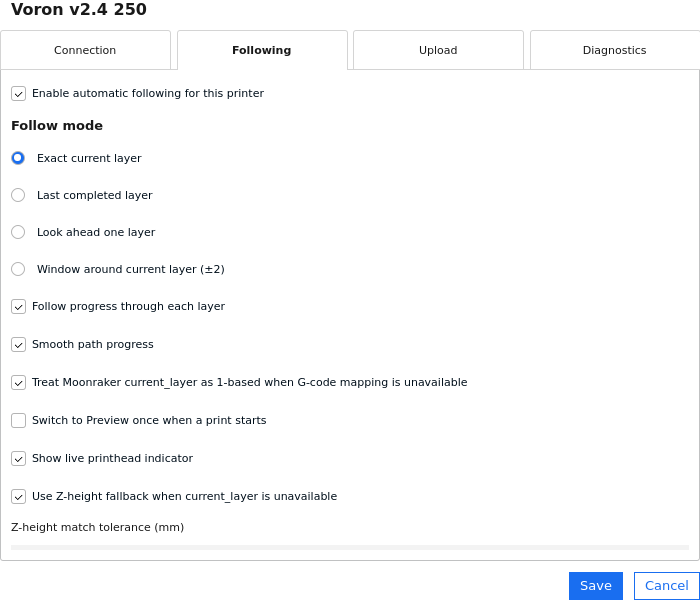
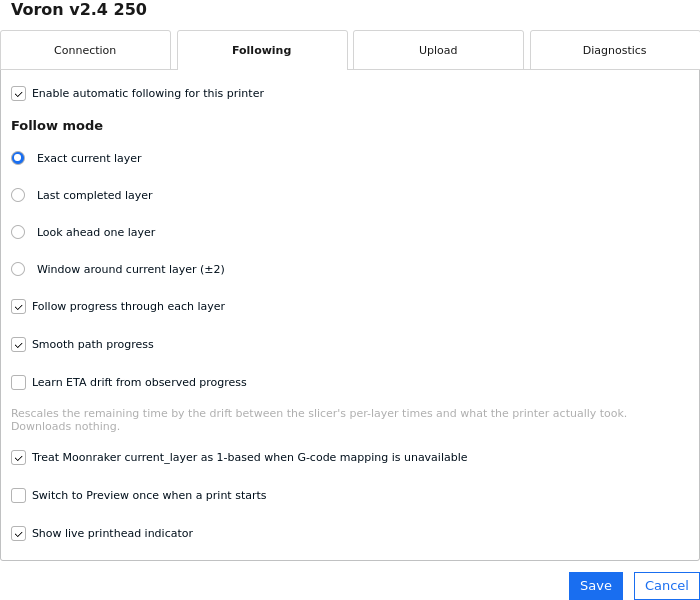
4.3.0 fixes: following enabled by default, the settings-dialog overlap, and the rename migration
Following is enabled by default and written into the settings section on first launch (the per-field enabled mirror and the migration defaults). The Improve-ETA tooltip wrapper in the Following tab no longer collapses onto the first checkbox, and the invalid-URL error only appears once a URL is actually typed. Settings saved under the pre-rename keys migrate across once; captures updated.

diff --git a/plugins/MoonrakerFollowerConfiguration.qml b/plugins/MoonrakerFollowerConfiguration.qml
@@ -194,7 +194,12 @@ Cura.MachineAction {
                             onTextChanged: base.validUrl = manager.validUrl(text)
                         }
                         UM.Label {
-                            visible: base.connectionRequested && !base.validUrl
+                            // Only once a URL is actually typed: an
+                            // untouched placeholder must not moan on a
+                            // fresh dialog (following is on by
+                            // default, so connectionRequested is
+                            // already true on first open).
+                            visible: base.connectionRequested && !base.validUrl && urlField.text.trim() !== ""
                             text: "Enter a valid HTTP or HTTPS Moonraker URL."
                             color: UM.Theme.getColor("error")
                             font: UM.Theme.getFont("default_italic")
@@ -580,13 +585,21 @@ Cura.MachineAction {
                             enabled: pathFollowBox.checked
                             checked: manager.settingsPathSmoothing
                         }
-                        UM.TooltipArea {
-                            text: "Rescale the remaining-time estimate by the drift between the slicer's per-layer times and what the printer actually took. Downloads nothing."
-                            UM.CheckBox {
-                                id: etaLearnBox
-                                text: "Learn ETA drift from observed progress"
-                                checked: manager.settingsEtaLearn
-                            }
+                        UM.CheckBox {
+                            id: etaLearnBox
+                            text: "Learn ETA drift from observed progress"
+                            checked: manager.settingsEtaLearn
+                        }
+                        UM.Label {
+                            // A plain caption, not UM.TooltipArea: the
+                            // tooltip wrapper's sizing in the settings
+                            // column collapsed this row onto the first
+                            // checkbox (the live report's overlap).
+                            text: "Rescales the remaining time by the drift between the slicer's per-layer times and what the printer actually took. Downloads nothing."
+                            font: UM.Theme.getFont("default")
+                            color: UM.Theme.getColor("text_inactive")
+                            wrapMode: Text.WordWrap
+                            width: parent.width
                         }
                         UM.CheckBox {
                             id: oneBasedBox

diff --git a/plugins/PrinterConfig.py b/plugins/PrinterConfig.py
@@ -94,8 +94,10 @@ class FeedMode(str, Enum):
 
 @dataclass
 class PrinterConfig:
-    # Live Preview follower settings.
-    enabled: bool = False
+    # Live Preview follower settings. Enabled by default (the author's
+    # 2026-09-17 ruling): a fresh machine should follow without an
+    # extra checkbox trip.
+    enabled: bool = True
     url: str = "http://"
     api_key: str = ""
     poll_interval_ms: int = 750
@@ -347,7 +349,10 @@ class PrinterConfigStore:
         "path_follow": "moonrakerprintfollower/path_follow",
     }
     LEGACY_DEFAULTS = {
-        "enabled": False,
+        # The product default (the 2026-09-17 ruling): following is
+        # enabled by default, so a fresh install's written settings
+        # section starts ticked.
+        "enabled": True,
         "url": "http://",
         "api_key": "",
         "poll_interval_ms": 750,
@@ -374,6 +379,30 @@ class PrinterConfigStore:
         # runtime split and stored values remain readable during upgrade.
         for field_name, pref_key in self.LEGACY_MAP.items():
             preferences.addPreference(pref_key, self.LEGACY_DEFAULTS[field_name])
+        # The 4.3.0 identity rename: carry settings saved under the
+        # pre-rename underscore keys across once, so installs of the
+        # morning's first 4.3.0 build keep their configuration. New
+        # keys win if both exist.
+        old_prefix = "moonraker_print_follower/"
+        for pref_key in self.LEGACY_MAP.values():
+            old_key = old_prefix + pref_key.rsplit("/", 1)[-1]
+            try:
+                old_value = preferences.getValue(old_key, None)
+                if old_value is not None:
+                    preferences.setValue(pref_key, old_value)
+            except Exception:
+                pass
+        for old_key, new_key in (
+            (old_prefix + "printer_configs_v1", self.PREF_KEY),
+            (old_prefix + "bed_mesh_visible", "moonrakerprintfollower/bed_mesh_visible"),
+            (old_prefix + "bed_mesh_exaggeration", "moonrakerprintfollower/bed_mesh_exaggeration"),
+        ):
+            try:
+                old_value = preferences.getValue(old_key, None)
+                if old_value:
+                    preferences.setValue(new_key, old_value)
+            except Exception:
+                pass
 
     @staticmethod
     def _truthy(value: Any) -> bool:
@@ -416,6 +445,10 @@ class PrinterConfigStore:
         machine_id, _ = self.identity()
         entry = data.get(machine_id)
         if isinstance(entry, dict):
+            self._preferences.setValue(
+                self.LEGACY_MAP["enabled"],
+                bool(entry.get("enabled", True)),
+            )
             self._preferences.setValue(
                 self.LEGACY_MAP["memory_diagnostics_log"],
                 bool(entry.get("memory_diagnostics_log", False)),

diff --git a/tests/test_printer_config.py b/tests/test_printer_config.py
@@ -35,7 +35,9 @@ class PrinterConfigTests(unittest.TestCase):
         ))
 
         active[:] = ["machine-b", "Printer B"]
-        self.assertFalse(store.get().enabled)
+        # Following is enabled by default (the 2026-09-17 ruling):
+        # an unconfigured machine starts enabled, not off.
+        self.assertTrue(store.get().enabled)
         self.assertEqual(store.get().url, "http://")
         self.assertEqual(store.get().upload_path, "")
         store.set(PrinterConfig(
@@ -63,6 +65,9 @@ class PrinterConfigTests(unittest.TestCase):
         self.assertTrue(prefs.getValue(PrinterConfigStore.LEGACY_MAP["memory_diagnostics_log"]))
         store.set(PrinterConfig(memory_diagnostics_log=False))
         self.assertFalse(prefs.getValue(PrinterConfigStore.LEGACY_MAP["memory_diagnostics_log"]))
+        # The enabled state mirrors too (the 2026-09-17 ruling): the
+        # written settings section must show following enabled.
+        self.assertTrue(prefs.getValue(PrinterConfigStore.LEGACY_MAP["enabled"]))
 
     def test_legacy_follower_settings_migrate_once_to_active_machine(self):
         prefs = FakePreferences()
